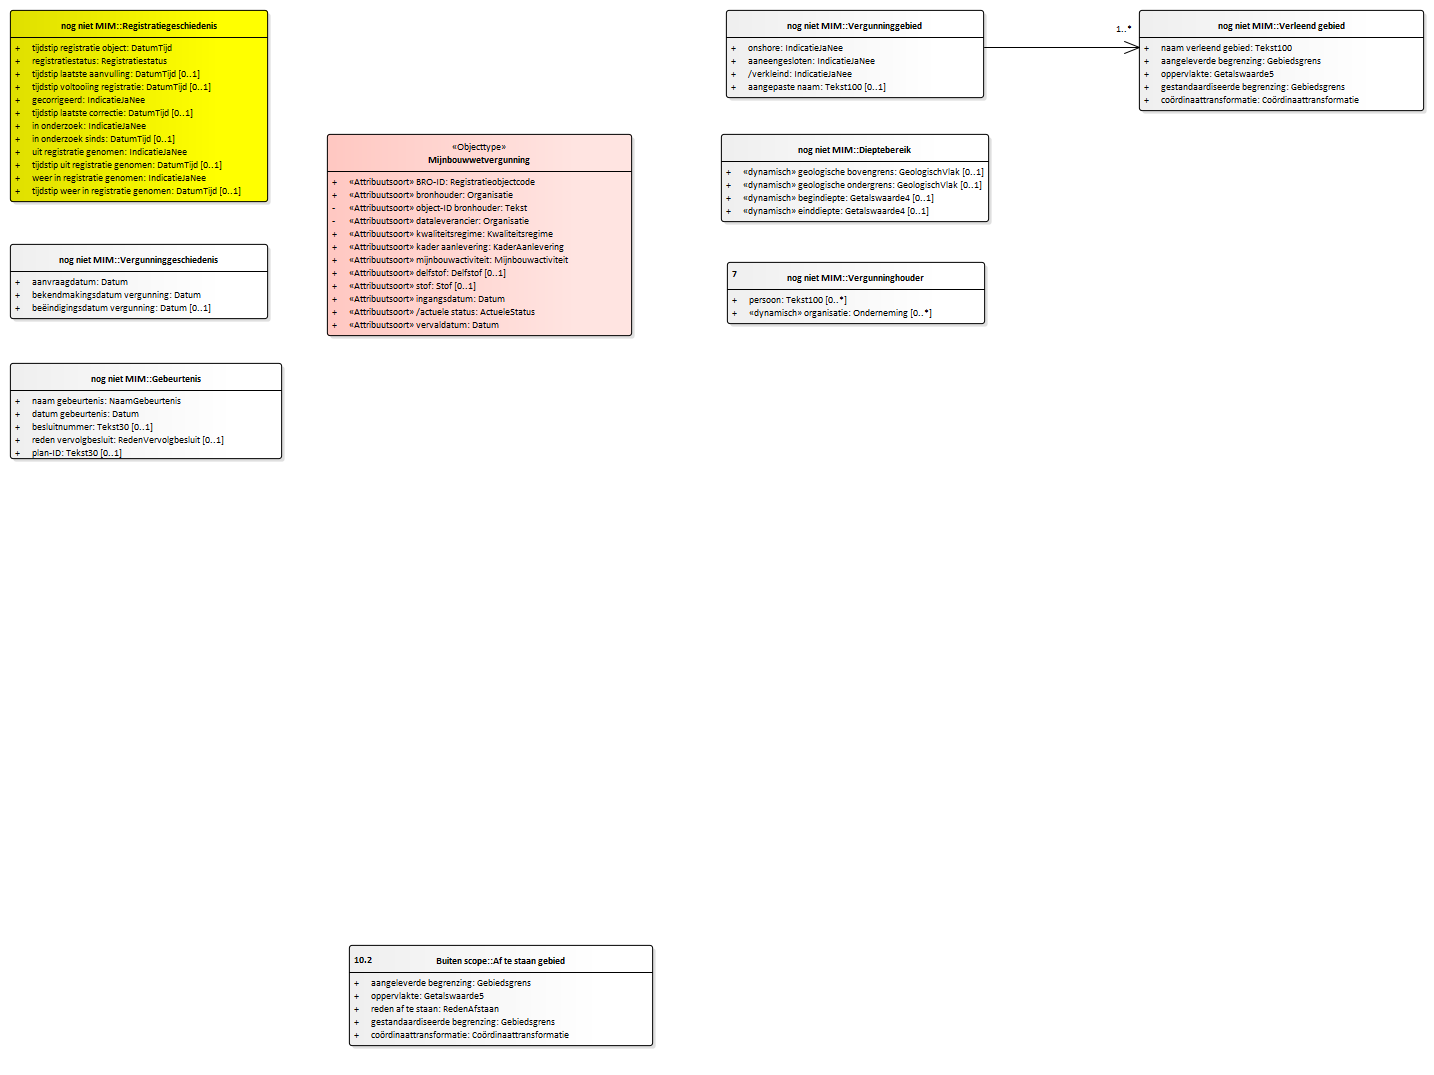
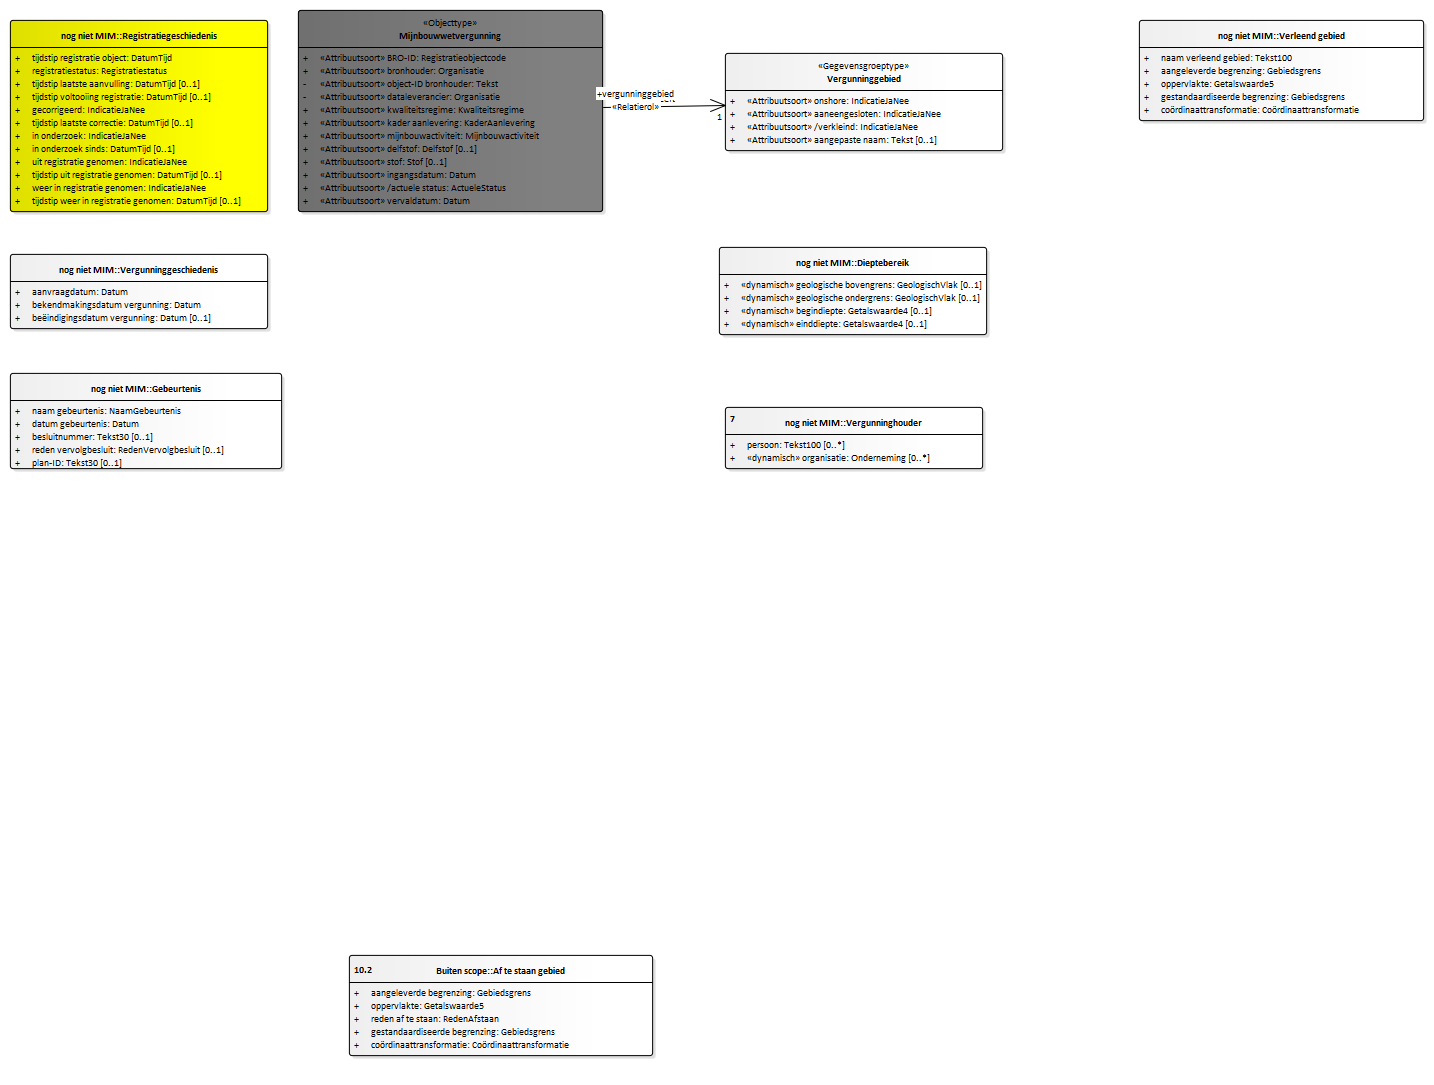
Conceptualmodel-EPLconceptueel-0.1-1-20201106-20201118-101943

diff --git a/data/EPL-cat.msword.html b/data/EPL-cat.msword.html
@@ -14,8 +14,8 @@
    </head>
    <body>
       <p>Conceptual model/EPL conceptueel/20201106</p>
-      <p>Imvertor: 1.62.0</p>
-      <p>Model release: Conceptualmodel-EPLconceptueel-0.1-1-20201106-20201106-101544</p>
+      <p>Imvertor: 1.62.1</p>
+      <p>Model release: Conceptualmodel-EPLconceptueel-0.1-1-20201106-20201118-101943</p>
       <hr>
       <section>
          <h1>Artikel 1 Definitie van registratieobject, entiteiten en attributen</h1>
@@ -41,7 +41,10 @@
          </section>
          <section>
             <h2>Het domeinmodel</h2>
-            <section id=""></section>
+            <section id="">
+               <div class="imageinfo overview"><img src="Images/EAID_4B6A330A_F5EC_4482_B697_367B249DB287.png" usemap="#imagemap-EAID_4B6A330A_F5EC_4482_B697_367B249DB287" alt="Diagram "><map name="imagemap-EAID_4B6A330A_F5EC_4482_B697_367B249DB287"><area shape="rect" alt="Vergunninggebied" coords="725,53,1003,151" href="#graph_EAID_55848D58_82A4_4b0e_AE8B_281669C7CA59"><area shape="rect" alt="Mijnbouwwetvergunning" coords="298,10,603,212" href="#graph_EAID_79464324_589F_4408_BD2E_501CBB622EC8"></map><p><b>Domeinmodel BRO mijnbouwwetvergunning</b></p>
+               </div>
+            </section>
          </section>
          <section>
             <h2>Entiteiten en attributen</h2>
@@ -515,6 +518,183 @@
                            <tr>
                               <th>&nbsp;&nbsp;Naam</th>
                               <td>Datum</td>
+                           </tr>
+                        </tbody>
+                     </table>
+                     </section>
+               </section><a class="anchor" id="graph_EAID_55848D58_82A4_4b0e_AE8B_281669C7CA59"></a><a class="anchor" id="global_class_DomeinmodelBROEPL_Vergunninggebied"></a><section id="global_class_DomeinmodelBROEPL_Vergunninggebied">
+                  <h3>   Vergunninggebied</h3>
+                  <table style="width: 100%;">
+                     <colgroup style="width: 30%;"></colgroup>
+                     <colgroup style="width: 70%;"></colgroup>
+                     <tbody>
+                        <tr>
+                           <th>Type gegeven</th>
+                           <td>Entiteit</td>
+                        </tr>
+                        <tr>
+                           <th>Definitie</th>
+                           <td>
+                              
+                              <p>Het gebied waar het recht betrekking op heeft.</p>
+                              </td>
+                        </tr>
+                     </tbody>
+                  </table><a class="anchor" id="detail_attribute_DomeinmodelBROEPL_Vergunninggebied_onshore"></a><section id="detail_attribute_DomeinmodelBROEPL_Vergunninggebied_onshore">
+                     <h4>  onshore</h4>
+                     
+                     <table style="width: 100%;">
+                        <colgroup style="width: 30%;"></colgroup>
+                        <colgroup style="width: 70%;"></colgroup>
+                        <tbody>
+                           <tr>
+                              <th>Type gegeven</th>
+                              <td>Attribuut van Vergunninggebied</td>
+                           </tr>
+                           <tr>
+                              <th>Definitie</th>
+                              <td>
+                                 
+                                 <p>De aanduiding die aangeeft of het vergunninggebied aan de landzijde van de driemijlsgrens
+                                    ligt.</p>
+                                 </td>
+                           </tr>
+                           <tr>
+                              <th>Juridische status</th>
+                              <td>Authentiek</td>
+                           </tr>
+                           <tr>
+                              <th>Kardinaliteit</th>
+                              <td>1</td>
+                           </tr>
+                           <tr>
+                              <th>Domein</th>
+                              <td></td>
+                           </tr>
+                           <tr>
+                              <th>&nbsp;&nbsp;Naam</th>
+                              <td>IndicatieJaNee</td>
+                           </tr>
+                           <tr>
+                              <th>&nbsp;&nbsp;Type</th>
+                              <td>Waardelijst niet uitbreidbaar</td>
+                           </tr>
+                        </tbody>
+                     </table>
+                     </section><a class="anchor" id="detail_attribute_DomeinmodelBROEPL_Vergunninggebied_aaneengesloten"></a><section id="detail_attribute_DomeinmodelBROEPL_Vergunninggebied_aaneengesloten">
+                     <h4>  aaneengesloten</h4>
+                     
+                     <table style="width: 100%;">
+                        <colgroup style="width: 30%;"></colgroup>
+                        <colgroup style="width: 70%;"></colgroup>
+                        <tbody>
+                           <tr>
+                              <th>Type gegeven</th>
+                              <td>Attribuut van Vergunninggebied</td>
+                           </tr>
+                           <tr>
+                              <th>Definitie</th>
+                              <td>
+                                 
+                                 <p>De aanduiding die aangeeft of het vergunninggebied bij verlening een aaneengesloten
+                                    geheel is.</p>
+                                 </td>
+                           </tr>
+                           <tr>
+                              <th>Juridische status</th>
+                              <td>Authentiek</td>
+                           </tr>
+                           <tr>
+                              <th>Kardinaliteit</th>
+                              <td>1</td>
+                           </tr>
+                           <tr>
+                              <th>Domein</th>
+                              <td></td>
+                           </tr>
+                           <tr>
+                              <th>&nbsp;&nbsp;Naam</th>
+                              <td>IndicatieJaNee</td>
+                           </tr>
+                           <tr>
+                              <th>&nbsp;&nbsp;Type</th>
+                              <td>Waardelijst niet uitbreidbaar</td>
+                           </tr>
+                        </tbody>
+                     </table>
+                     </section><a class="anchor" id="detail_attribute_DomeinmodelBROEPL_Vergunninggebied_verkleind"></a><section id="detail_attribute_DomeinmodelBROEPL_Vergunninggebied_verkleind">
+                     <h4>  verkleind</h4>
+                     
+                     <table style="width: 100%;">
+                        <colgroup style="width: 30%;"></colgroup>
+                        <colgroup style="width: 70%;"></colgroup>
+                        <tbody>
+                           <tr>
+                              <th>Type gegeven</th>
+                              <td>Attribuut van Vergunninggebied</td>
+                           </tr>
+                           <tr>
+                              <th>Definitie</th>
+                              <td>
+                                 
+                                 <p>De aanduiding die aangeeft of het vergunninggebied na verlening verkleind is.</p>
+                                 </td>
+                           </tr>
+                           <tr>
+                              <th>Juridische status</th>
+                              <td>Authentiek</td>
+                           </tr>
+                           <tr>
+                              <th>Kardinaliteit</th>
+                              <td>1</td>
+                           </tr>
+                           <tr>
+                              <th>Domein</th>
+                              <td></td>
+                           </tr>
+                           <tr>
+                              <th>&nbsp;&nbsp;Naam</th>
+                              <td>IndicatieJaNee</td>
+                           </tr>
+                           <tr>
+                              <th>&nbsp;&nbsp;Type</th>
+                              <td>Waardelijst niet uitbreidbaar</td>
+                           </tr>
+                        </tbody>
+                     </table>
+                     </section><a class="anchor" id="detail_attribute_DomeinmodelBROEPL_Vergunninggebied_aangepastenaam"></a><section id="detail_attribute_DomeinmodelBROEPL_Vergunninggebied_aangepastenaam">
+                     <h4>  aangepaste naam</h4>
+                     
+                     <table style="width: 100%;">
+                        <colgroup style="width: 30%;"></colgroup>
+                        <colgroup style="width: 70%;"></colgroup>
+                        <tbody>
+                           <tr>
+                              <th>Type gegeven</th>
+                              <td>Attribuut van Vergunninggebied</td>
+                           </tr>
+                           <tr>
+                              <th>Definitie</th>
+                              <td>
+                                 
+                                 <p>De nieuwe naam van het vergunninggebied.</p>
+                                 </td>
+                           </tr>
+                           <tr>
+                              <th>Juridische status</th>
+                              <td>Authentiek</td>
+                           </tr>
+                           <tr>
+                              <th>Kardinaliteit</th>
+                              <td>0..1</td>
+                           </tr>
+                           <tr>
+                              <th>Domein</th>
+                              <td></td>
+                           </tr>
+                           <tr>
+                              <th>&nbsp;&nbsp;Naam</th>
+                              <td>Tekst 100</td>
                            </tr>
                         </tbody>
                      </table>
